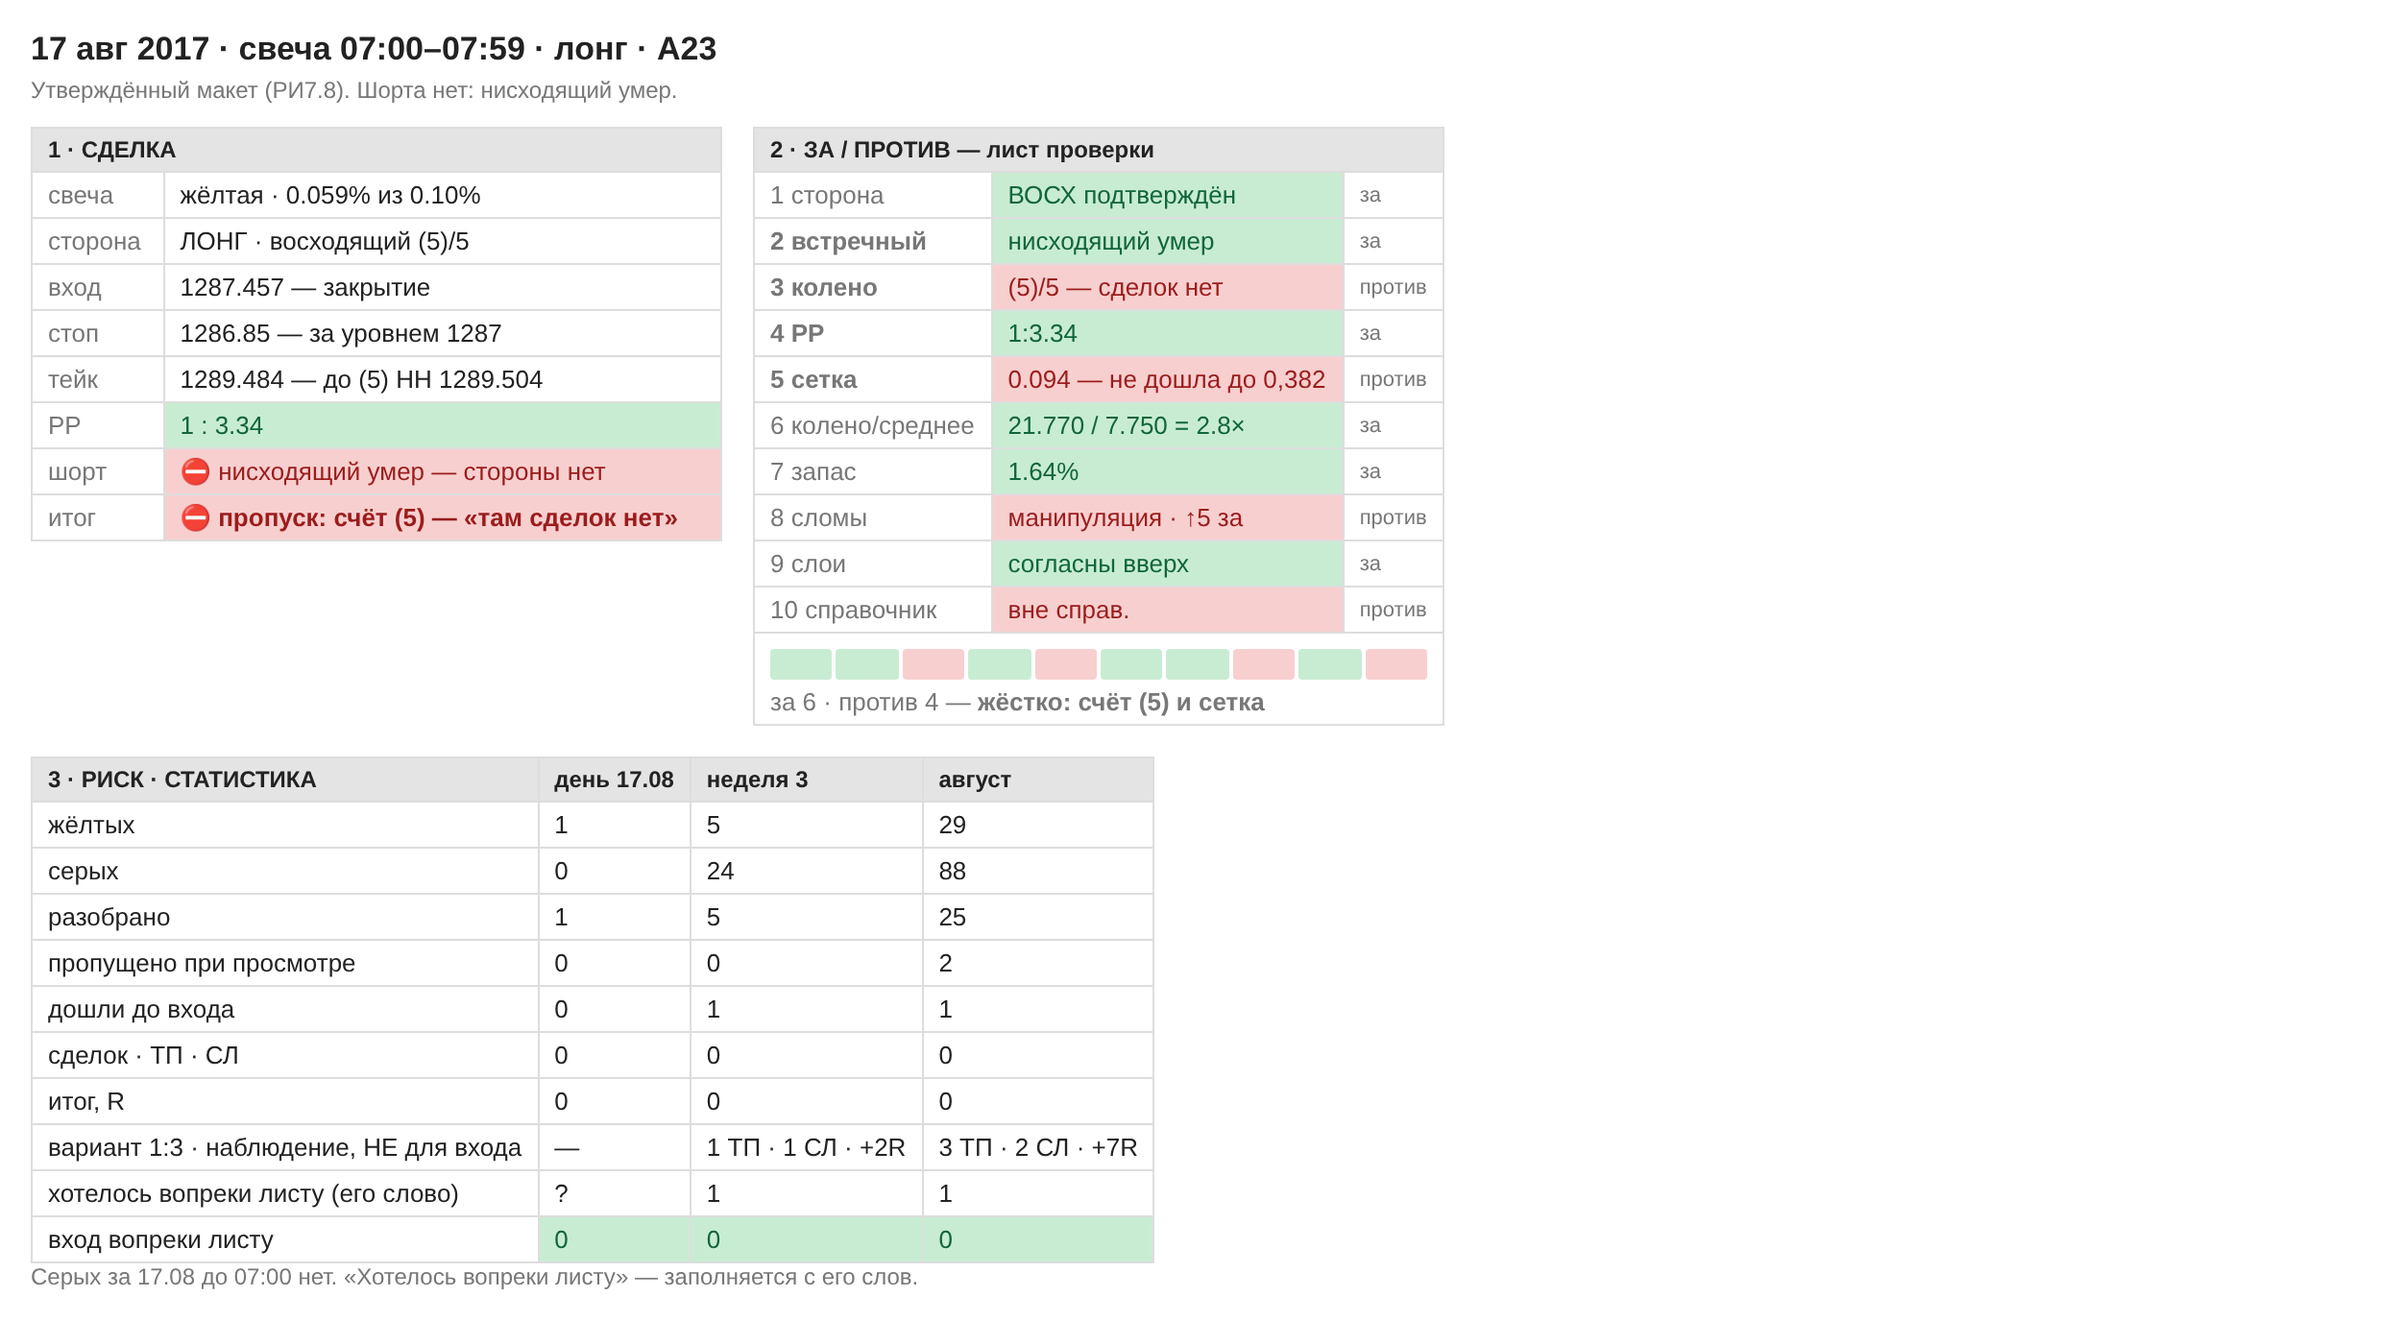
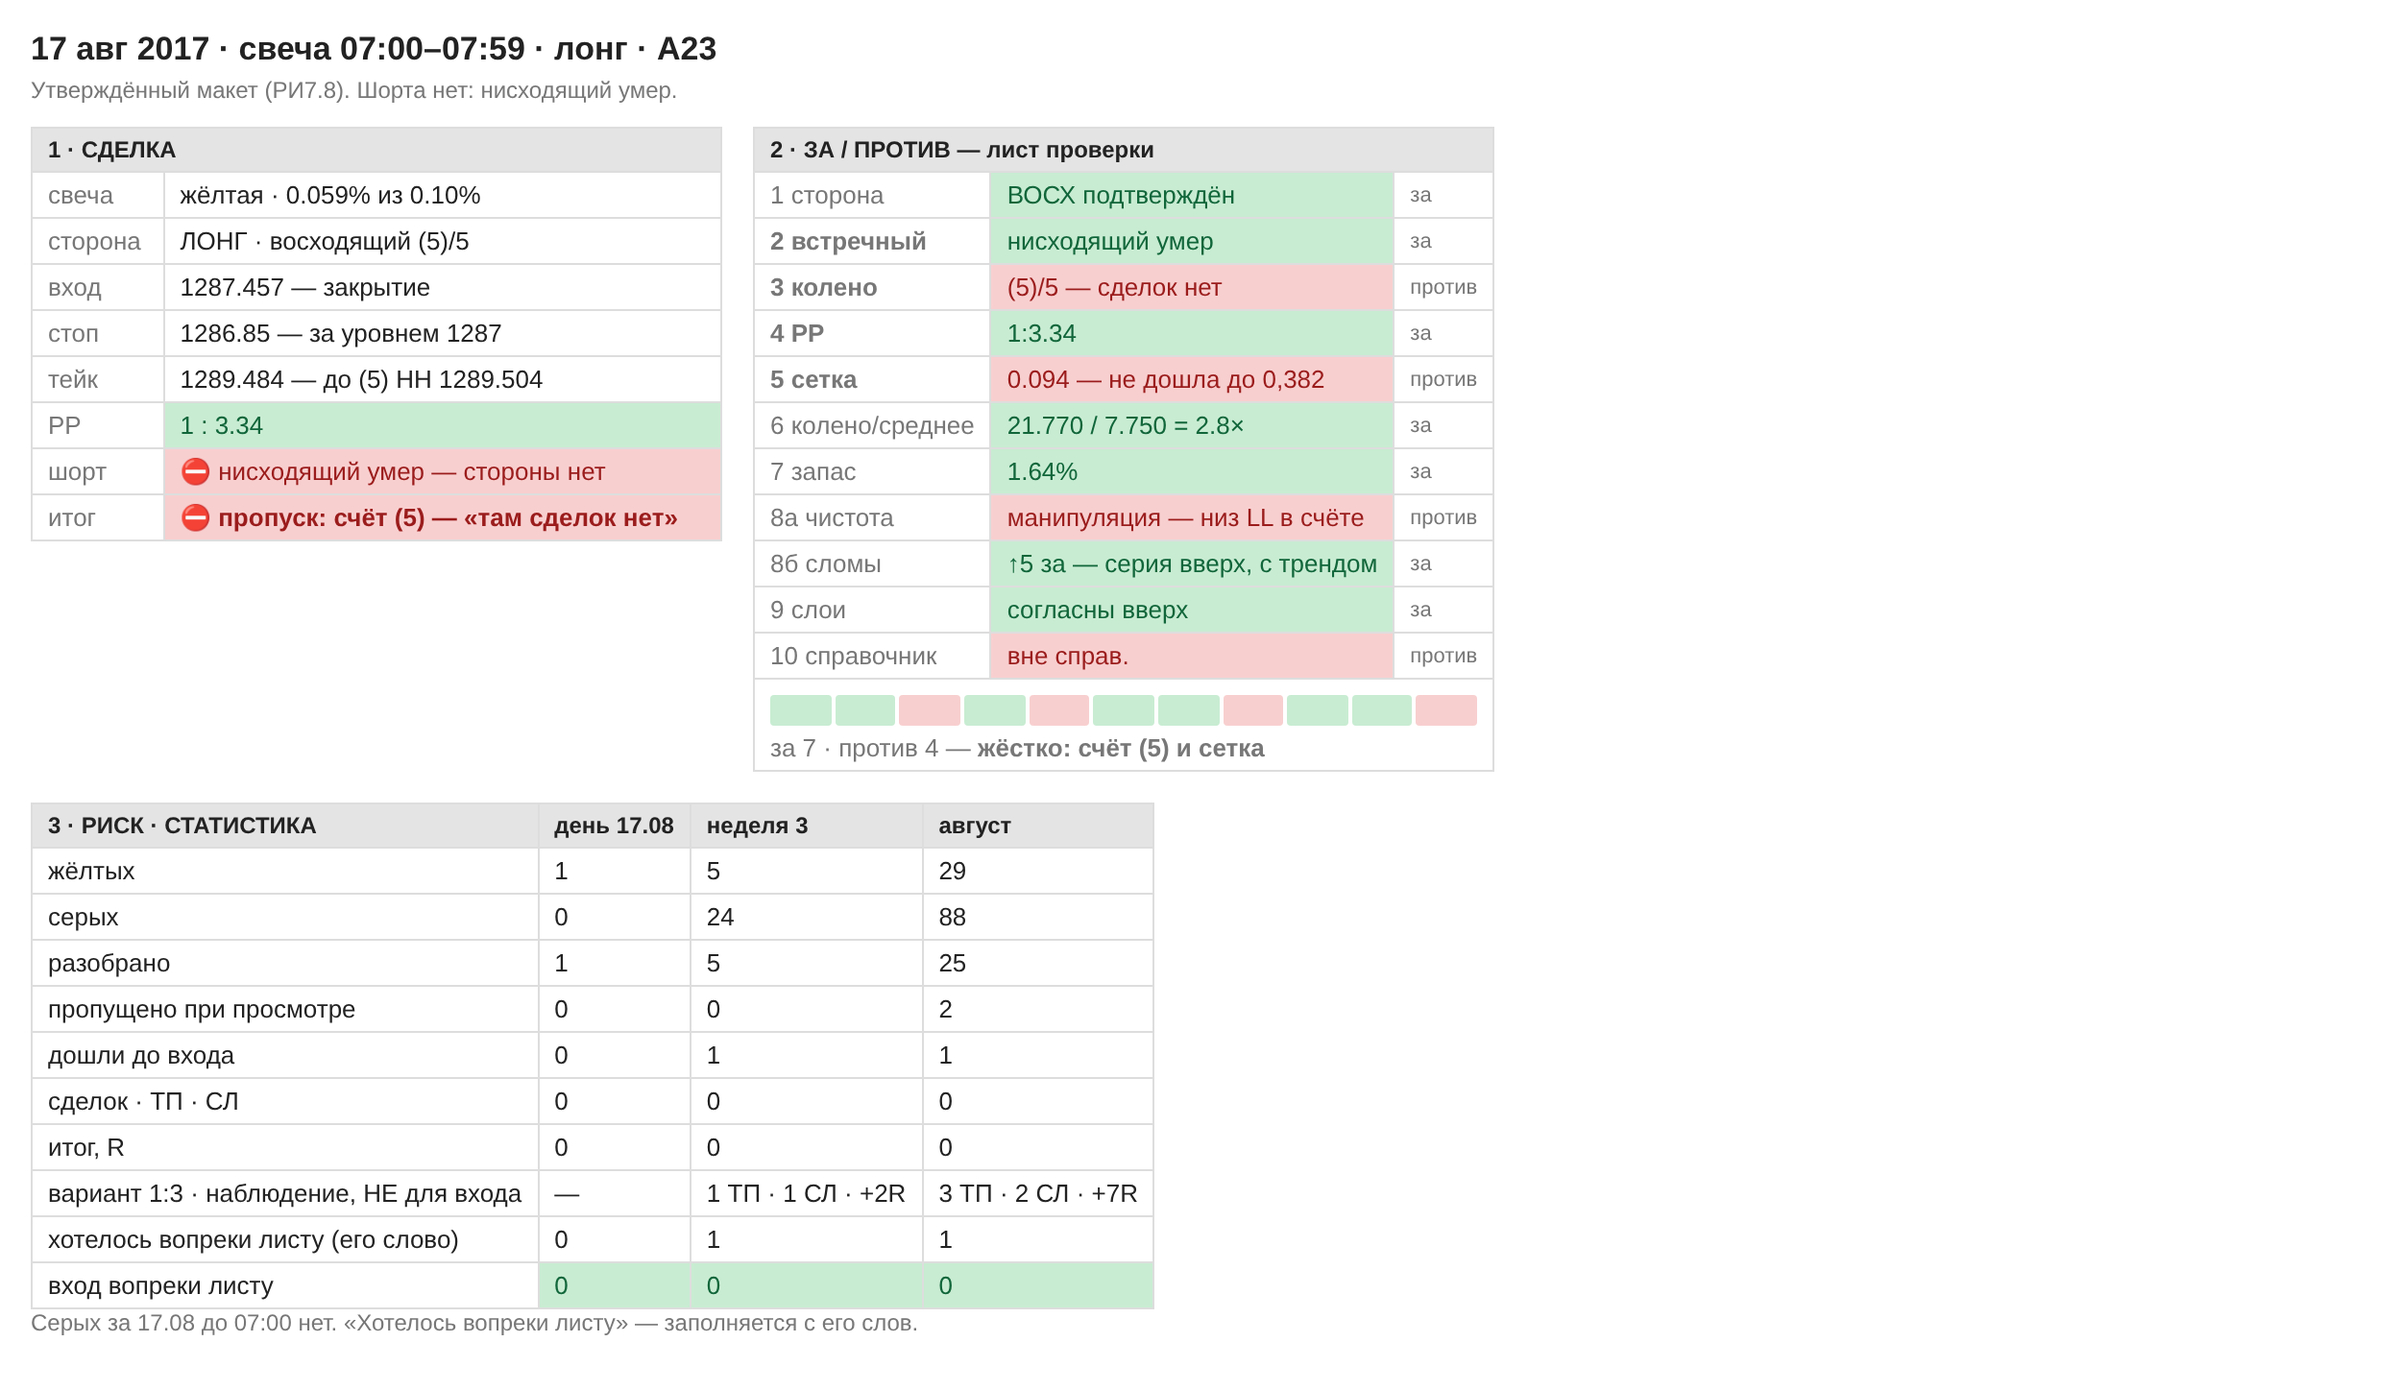
Макет: пункт 8 листа разделён на 8а чистота и 8б сломы — моя ошибка, его вопрос
Claude-Session: https://claude.ai/code/session_01TnuyYeu48W8E686G1zottP

Changed region(s): [[0.0, 0.0307, 0.624, 0.9521], [0.2808, 0.0307, 0.312, 0.0614]]

diff --git a/research/out/maket/2017-08-17_0700.html b/research/out/maket/2017-08-17_0700.html
@@ -6,4 +6,4 @@ table{border-collapse:collapse;min-width:360px}td,th{border:1px solid var(--ln);
 th{background:var(--h);font-size:12px}.blk td:first-child{color:var(--mut);white-space:nowrap}
 .g{background:var(--g);color:var(--gt)}.r{background:var(--r);color:var(--rt)}.n{background:var(--n);color:var(--mut)}
 .hard{font-weight:bold}.tag{font-size:11px;color:var(--mut)}
-.bar{display:flex;gap:2px;margin:4px 0}.bar span{flex:1;height:16px;border-radius:2px}</style></head><body><h1>17 авг 2017 · свеча 07:00–07:59 · лонг · А23</h1><p class="sub">Утверждённый макет (РИ7.8). Шорта нет: нисходящий умер.</p><div class="wrap"><table class="blk"><tr><th colspan="2">1 · СДЕЛКА</th></tr><tr><td>свеча</td><td class="">жёлтая · 0.059% из 0.10%</td></tr><tr><td>сторона</td><td class="">ЛОНГ · восходящий (5)/5</td></tr><tr><td>вход</td><td class="">1287.457 — закрытие</td></tr><tr><td>стоп</td><td class="">1286.85 — за уровнем 1287</td></tr><tr><td>тейк</td><td class="">1289.484 — до (5) HH 1289.504</td></tr><tr><td>РР</td><td class="g">1 : 3.34</td></tr><tr><td>шорт</td><td class="r">⛔ нисходящий умер — стороны нет</td></tr><tr><td>итог</td><td class="r hard">⛔ пропуск: счёт (5) — «там сделок нет»</td></tr></table><table class="blk"><tr><th colspan="3">2 · ЗА / ПРОТИВ — лист проверки</th></tr><tr><td class="">1 сторона</td><td class="g">ВОСХ подтверждён</td><td class="tag">за</td></tr><tr><td class="hard">2 встречный</td><td class="g">нисходящий умер</td><td class="tag">за</td></tr><tr><td class="hard">3 колено</td><td class="r">(5)/5 — сделок нет</td><td class="tag">против</td></tr><tr><td class="hard">4 РР</td><td class="g">1:3.34</td><td class="tag">за</td></tr><tr><td class="hard">5 сетка</td><td class="r">0.094 — не дошла до 0,382</td><td class="tag">против</td></tr><tr><td class="">6 колено/среднее</td><td class="g">21.770 / 7.750 = 2.8×</td><td class="tag">за</td></tr><tr><td class="">7 запас</td><td class="g">1.64%</td><td class="tag">за</td></tr><tr><td class="">8 сломы</td><td class="r">манипуляция · ↑5 за</td><td class="tag">против</td></tr><tr><td class="">9 слои</td><td class="g">согласны вверх</td><td class="tag">за</td></tr><tr><td class="">10 справочник</td><td class="r">вне справ.</td><td class="tag">против</td></tr><tr><td colspan="3"><div class="bar"><span class="g"></span><span class="g"></span><span class="r"></span><span class="g"></span><span class="r"></span><span class="g"></span><span class="g"></span><span class="r"></span><span class="g"></span><span class="r"></span></div>за 6 · против 4 — <b>жёстко: счёт (5) и сетка</b></td></tr></table><table><tr><th>3 · РИСК · СТАТИСТИКА</th><th>день 17.08</th><th>неделя 3</th><th>август</th></tr><tr><td>жёлтых</td><td class="">1</td><td class="">5</td><td class="">29</td></tr><tr><td>серых</td><td class="">0</td><td class="">24</td><td class="">88</td></tr><tr><td>разобрано</td><td class="">1</td><td class="">5</td><td class="">25</td></tr><tr><td>пропущено при просмотре</td><td class="">0</td><td class="">0</td><td class="">2</td></tr><tr><td>дошли до входа</td><td class="">0</td><td class="">1</td><td class="">1</td></tr><tr><td>сделок · ТП · СЛ</td><td class="">0</td><td class="">0</td><td class="">0</td></tr><tr><td>итог, R</td><td class="">0</td><td class="">0</td><td class="">0</td></tr><tr><td>вариант 1:3 · наблюдение, НЕ для входа</td><td class="">—</td><td class="">1 ТП · 1 СЛ · +2R</td><td class="">3 ТП · 2 СЛ · +7R</td></tr><tr><td>хотелось вопреки листу (его слово)</td><td class="">?</td><td class="">1</td><td class="">1</td></tr><tr><td>вход вопреки листу</td><td class="g">0</td><td class="g">0</td><td class="g">0</td></tr></table></div><p class="sub">Серых за 17.08 до 07:00 нет. «Хотелось вопреки листу» — заполняется с его слов.</p></body></html>
+.bar{display:flex;gap:2px;margin:4px 0}.bar span{flex:1;height:16px;border-radius:2px}</style></head><body><h1>17 авг 2017 · свеча 07:00–07:59 · лонг · А23</h1><p class="sub">Утверждённый макет (РИ7.8). Шорта нет: нисходящий умер.</p><div class="wrap"><table class="blk"><tr><th colspan="2">1 · СДЕЛКА</th></tr><tr><td>свеча</td><td class="">жёлтая · 0.059% из 0.10%</td></tr><tr><td>сторона</td><td class="">ЛОНГ · восходящий (5)/5</td></tr><tr><td>вход</td><td class="">1287.457 — закрытие</td></tr><tr><td>стоп</td><td class="">1286.85 — за уровнем 1287</td></tr><tr><td>тейк</td><td class="">1289.484 — до (5) HH 1289.504</td></tr><tr><td>РР</td><td class="g">1 : 3.34</td></tr><tr><td>шорт</td><td class="r">⛔ нисходящий умер — стороны нет</td></tr><tr><td>итог</td><td class="r hard">⛔ пропуск: счёт (5) — «там сделок нет»</td></tr></table><table class="blk"><tr><th colspan="3">2 · ЗА / ПРОТИВ — лист проверки</th></tr><tr><td class="">1 сторона</td><td class="g">ВОСХ подтверждён</td><td class="tag">за</td></tr><tr><td class="hard">2 встречный</td><td class="g">нисходящий умер</td><td class="tag">за</td></tr><tr><td class="hard">3 колено</td><td class="r">(5)/5 — сделок нет</td><td class="tag">против</td></tr><tr><td class="hard">4 РР</td><td class="g">1:3.34</td><td class="tag">за</td></tr><tr><td class="hard">5 сетка</td><td class="r">0.094 — не дошла до 0,382</td><td class="tag">против</td></tr><tr><td class="">6 колено/среднее</td><td class="g">21.770 / 7.750 = 2.8×</td><td class="tag">за</td></tr><tr><td class="">7 запас</td><td class="g">1.64%</td><td class="tag">за</td></tr><tr><td class="">8а чистота</td><td class="r">манипуляция — низ LL в счёте</td><td class="tag">против</td></tr><tr><td class="">8б сломы</td><td class="g">↑5 за — серия вверх, с трендом</td><td class="tag">за</td></tr><tr><td class="">9 слои</td><td class="g">согласны вверх</td><td class="tag">за</td></tr><tr><td class="">10 справочник</td><td class="r">вне справ.</td><td class="tag">против</td></tr><tr><td colspan="3"><div class="bar"><span class="g"></span><span class="g"></span><span class="r"></span><span class="g"></span><span class="r"></span><span class="g"></span><span class="g"></span><span class="r"></span><span class="g"></span><span class="g"></span><span class="r"></span></div>за 7 · против 4 — <b>жёстко: счёт (5) и сетка</b></td></tr></table><table><tr><th>3 · РИСК · СТАТИСТИКА</th><th>день 17.08</th><th>неделя 3</th><th>август</th></tr><tr><td>жёлтых</td><td class="">1</td><td class="">5</td><td class="">29</td></tr><tr><td>серых</td><td class="">0</td><td class="">24</td><td class="">88</td></tr><tr><td>разобрано</td><td class="">1</td><td class="">5</td><td class="">25</td></tr><tr><td>пропущено при просмотре</td><td class="">0</td><td class="">0</td><td class="">2</td></tr><tr><td>дошли до входа</td><td class="">0</td><td class="">1</td><td class="">1</td></tr><tr><td>сделок · ТП · СЛ</td><td class="">0</td><td class="">0</td><td class="">0</td></tr><tr><td>итог, R</td><td class="">0</td><td class="">0</td><td class="">0</td></tr><tr><td>вариант 1:3 · наблюдение, НЕ для входа</td><td class="">—</td><td class="">1 ТП · 1 СЛ · +2R</td><td class="">3 ТП · 2 СЛ · +7R</td></tr><tr><td>хотелось вопреки листу (его слово)</td><td class="">0</td><td class="">1</td><td class="">1</td></tr><tr><td>вход вопреки листу</td><td class="g">0</td><td class="g">0</td><td class="g">0</td></tr></table></div><p class="sub">Серых за 17.08 до 07:00 нет. «Хотелось вопреки листу» — заполняется с его слов.</p></body></html>

diff --git a/indicator/КАК-ТОРГУЮ.md b/indicator/КАК-ТОРГУЮ.md
@@ -3388,3 +3388,14 @@ bgcolor(srez …)   — срезана размером, тёмная
 
 **Макет:** `research/out/maket/2017-08-17_0700.png`. ❓ Строка «хотелось
 вопреки листу» — спрошено.
+
+**Ответ, 18.11.2026:** «нет, желания не было. единственное, что хотел
+уточнить: в таблице сломы подряд вверх 5 стрелок зелёных, а ты отмечаешь
+манипуляция против красное. тут не понял».
+
+| | |
+|---|---|
+| «хотелось вопреки листу» | **0** |
+| ⛔ **МОЯ ОШИБКА В МАКЕТЕ** | в пункт 8 листа я сложил ДВЕ вещи — «манипуляция» (чистота счёта, против) и «сломы ↑5 за» (серия с трендом, за) — и покрасил клетку по худшей. Пункт так и был назван: «чистота и сломы за / против». Когда одно за, другое против, клетка врёт при любом цвете |
+| исправлено | пункт 8 разделён на **8а чистота** и **8б сломы**. Макет 17 авг перерисован: за 7 · против 4. Вердикт не меняется — закрывают (5) и сетка |
+| ❓ спрошено | оставить лист из 11 пунктов с 8а и 8б — по умолчанию да |

diff --git a/indicator/ТАБЛО-НА-СВЕЧЕ.md b/indicator/ТАБЛО-НА-СВЕЧЕ.md
@@ -262,7 +262,7 @@ v3.44 (на проверке).
 | 5 | сетка: на линии или в зоне · между · нет · отменена | `цена в сетке` | Ф1.4, А7, А19 |
 | 6 | колено против среднего | `колено`, `среднее колено` | А6, А14 |
 | 7 | запас своей стороны и кто ближе к концу | `запас`, `рисует` | А9, А14, А19 |
-| 8 | чистота и сломы за / против | `за тренд` | А6, А19 |
+| 8 | чистота и сломы за / против | `за тренд` | А6, А19 · ⚠ **18.11 предложено разделить на 8а чистота (чистый / манипуляция) и 8б сломы (за / против)** — его вопрос по 17 авг: два разных сигнала в одной клетке красились по худшему |
 | 9 | слои согласны / спорят | `серия и уровни` | А6, А7, А19 |
 | 10 | справочник: в нём / вне | `посл-ть` | А7 |
 
